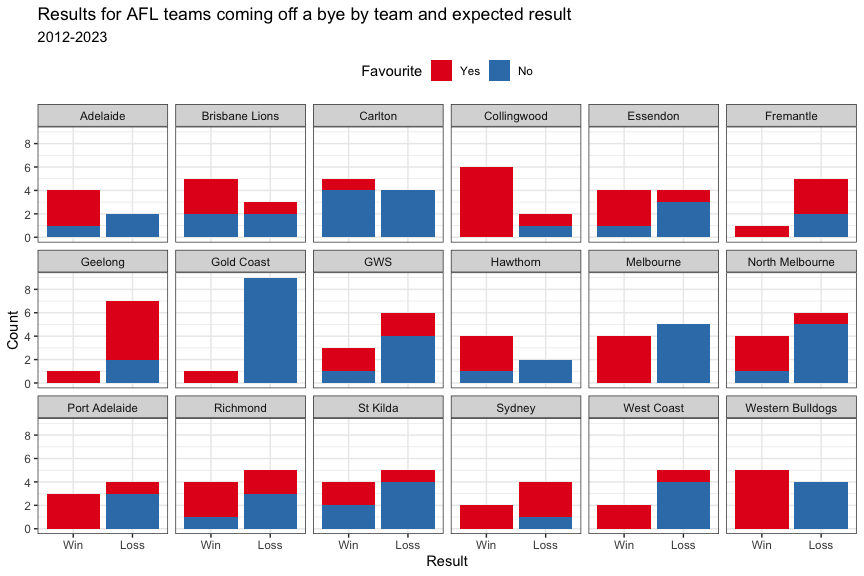
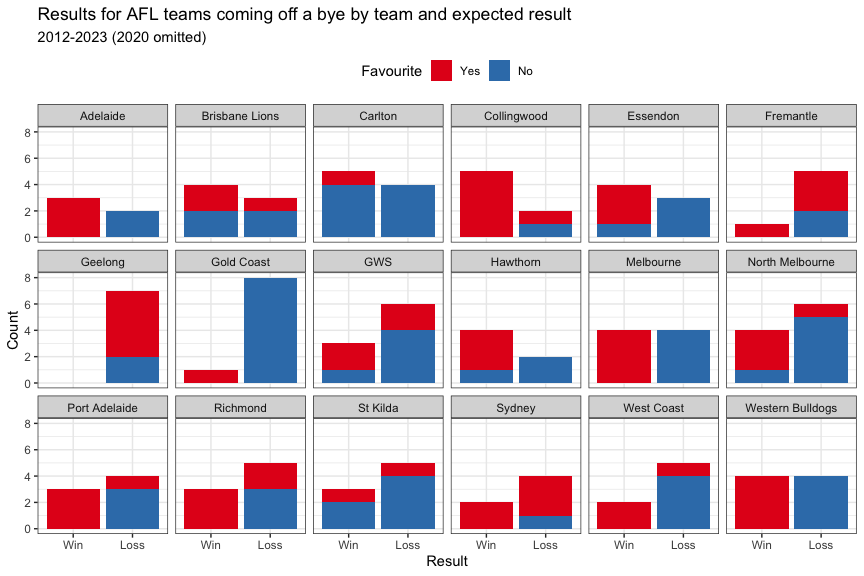
Changed mind: omit season 2020 (covid) from most analyses

diff --git a/code/R/Rmd/bye_scoring/post_bye_results.md b/code/R/Rmd/bye_scoring/post_bye_results.md
@@ -1,7 +1,7 @@
 AFL: post-bye results
 ================
 Neil Saunders
-2023-07-04 15:57:19
+2023-07-10 12:07:08
 
 - [Summary](#summary)
 - [Data](#data)
@@ -153,8 +153,8 @@ Let’s start looking at wins and losses in post-bye games.
 In the following sections we look only at games where one team comes off
 a bye.
 
-We also omit season 2011 so as to keep the focus on mid-season byes with
-18 teams.
+We also omit season 2011 and COVID-affected season 2020, so as to keep
+the focus on mid-season byes with 18 teams.
 
 ### Distribution of margins by expected result
 
@@ -210,10 +210,10 @@ Home.Team
 Loss
 </td>
 <td style="text-align:right;">
-59
+58
 </td>
 <td style="text-align:right;">
-23
+21
 </td>
 </tr>
 <tr>
@@ -221,10 +221,10 @@ Loss
 Win
 </td>
 <td style="text-align:right;">
-29
+27
 </td>
 <td style="text-align:right;">
-33
+28
 </td>
 </tr>
 </tbody>
@@ -255,16 +255,16 @@ alternative
 <tbody>
 <tr>
 <td style="text-align:right;">
-2.896154
+2.840623
 </td>
 <td style="text-align:right;">
-0.0031984
+0.0060125
 </td>
 <td style="text-align:right;">
-1.379455
+1.301022
 </td>
 <td style="text-align:right;">
-6.197092
+6.321085
 </td>
 <td style="text-align:left;">
 Fisher’s Exact Test for Count Data
@@ -395,7 +395,7 @@ idea about what makes a good comparison.
 
 <table>
 <caption>
-Game results by favourite 2012-2023
+Game results by favourite 2012-2023 (2020 omitted)
 </caption>
 <thead>
 <tr>
@@ -437,82 +437,82 @@ No/Win
 <tbody>
 <tr>
 <td style="text-align:left;">
-Post-bye games 2012-2023
+Post-bye games
+</td>
+<td style="text-align:right;">
+43
+</td>
+<td style="text-align:right;">
+58
+</td>
+<td style="text-align:right;">
+21
+</td>
+<td style="text-align:right;">
+12
+</td>
+<td style="text-align:right;">
+24.63
+</td>
+</tr>
+<tr>
+<td style="text-align:left;">
+All non-post-bye games
+</td>
+<td style="text-align:right;">
+879
+</td>
+<td style="text-align:right;">
+543
+</td>
+<td style="text-align:right;">
+345
+</td>
+<td style="text-align:right;">
+263
+</td>
+<td style="text-align:right;">
+29.95
+</td>
+</tr>
+<tr>
+<td style="text-align:left;">
+Same round non-post-bye games
 </td>
 <td style="text-align:right;">
 48
 </td>
 <td style="text-align:right;">
-60
+26
 </td>
 <td style="text-align:right;">
-22
+16
 </td>
 <td style="text-align:right;">
-14
+9
 </td>
 <td style="text-align:right;">
-25.00
+25.25
 </td>
 </tr>
 <tr>
 <td style="text-align:left;">
-All non-post-bye games 2012-2023
-</td>
-<td style="text-align:right;">
-937
-</td>
-<td style="text-align:right;">
-584
-</td>
-<td style="text-align:right;">
-365
-</td>
-<td style="text-align:right;">
-281
-</td>
-<td style="text-align:right;">
-29.81
-</td>
-</tr>
-<tr>
-<td style="text-align:left;">
-Same round non-post-bye games 2012-2023
-</td>
-<td style="text-align:right;">
-64
+Same date non-post-bye games
 </td>
 <td style="text-align:right;">
 32
 </td>
 <td style="text-align:right;">
-22
-</td>
-<td style="text-align:right;">
-15
-</td>
-<td style="text-align:right;">
-27.82
-</td>
-</tr>
-<tr>
-<td style="text-align:left;">
-Same date non-post-bye games 2012-2023
-</td>
-<td style="text-align:right;">
-38
-</td>
-<td style="text-align:right;">
-18
+17
 </td>
 <td style="text-align:right;">
 7
 </td>
 <td style="text-align:right;">
-8
+7
 </td>
 <td style="text-align:right;">
-21.13
+22.22
 </td>
 </tr>
 </tbody>
@@ -1428,10 +1428,10 @@ However, it does say:
 > team to bounce back from the bye and buck the mid-season trend of
 > teams losing upon their return
 
-So let’s focus on only mid-season byes (2012-2023), where the Bulldogs
-were the only team coming off the bye.
+So let’s focus on only mid-season byes (2012-2023, not 2020), where the
+Bulldogs were the only team coming off the bye.
 
-Their record is 5-4 (wins-losses) and they were not favourites to win in
+Their record is 4-4 (wins-losses) and they were not favourites to win in
 any of the four losses.
 
 <table class="table table-striped" style="margin-left: auto; margin-right: auto;">
@@ -1610,35 +1610,6 @@ W
 </td>
 <td style="text-align:right;">
 1.49
-</td>
-<td style="text-align:left;">
-Y
-</td>
-</tr>
-<tr>
-<td style="text-align:right;">
-2020
-</td>
-<td style="text-align:left;">
-R16
-</td>
-<td style="text-align:left;">
-Western Bulldogs
-</td>
-<td style="text-align:left;">
-Home.Team
-</td>
-<td style="text-align:left;">
-West Coast
-</td>
-<td style="text-align:right;">
-2
-</td>
-<td style="text-align:left;">
-W
-</td>
-<td style="text-align:right;">
-1.72
 </td>
 <td style="text-align:left;">
 Y
